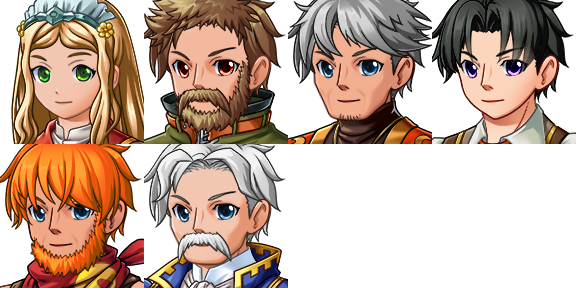
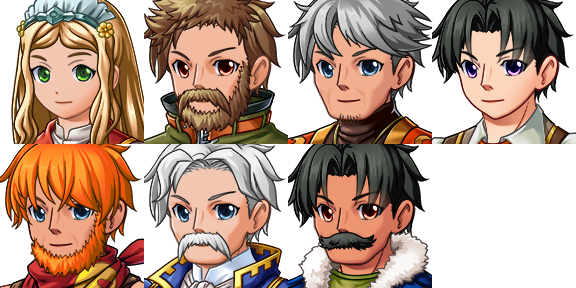
Saul Pennock gets a face of his own
He wore the Merchant's (People2 4), shared with two stalls, the Restwell
guest and Fellow Amory. Drawn as Gen_People17 6: a black moustache and a
pea coat with a fur collar, for a man from a cove.

Claude-Session: https://claude.ai/code/session_01DT7LL7HdDHkfFQ7pwiGzCu

Changed region(s): [[0.5, 0.5, 0.75, 1.0]]

diff --git a/build/q_roland.py b/build/q_roland.py
@@ -308,7 +308,7 @@ ALUMNI = [
           "eleven times. The twelfth was me.",
           "Our Roland, the whole crew calls him."]]),
     ("saul", "Saul Pennock (the Reckoning at Pennock's Cove)", "Saul",
-     ("People2", 4), BY_THE_DOOR, 8, [
+     None, BY_THE_DOOR, 8, [
          ["He settled the Reckoning at Pennock's",
           "Cove, all but the last of it. Said",
           "he'd never had a better crew. Hm."]]),
@@ -322,7 +322,8 @@ ALUMNI = [
 ROL3_FACES = {"florence": ("Gen_People12", 1), "anselm": ("Gen_People12", 2),
               "mags": ("Gen_People12", 3), "pim": ("Gen_People12", 4),
               "odile": ("Gen_People12", 5), "jory": ("Gen_People12", 6),
-              "ned": S.FACES["Ned Scarrow"], "royce": S.FACES["Major Royce"]}
+              "ned": S.FACES["Ned Scarrow"], "royce": S.FACES["Major Royce"],
+              "saul": S.FACES["Saul"]}
 # Speakers whose on-screen name is somebody else's `FACES` key: Ned Scarrow
 # is "Ned", and so is Gladhollow's.
 ROL3_FACE_KEYS = {"ned": "Ned Scarrow"}

diff --git a/build/story.py b/build/story.py
@@ -392,7 +392,7 @@ FACES = {
     "Old Jory": ("Gen_People12", 6),
     "Hettie": ("People1", 1),
     "Lord Tobin": ("People3", 2),
-    "Saul": ("People2", 4),
+    "Saul": ("Gen_People17", 6),              # was the Merchant's
     # Ned Scarrow is "Ned" on screen and is not Gladhollow's Ned: this
     # table used to say "Ned" twice, so the later entry won and Toby's
     # brother at the east gate wore Tibb's face and sprite. He speaks

diff --git a/build/art.py b/build/art.py
@@ -372,6 +372,8 @@ SHEETS = {
         (3, "fellow-grice.json"),       # sends his apologies
         (4, "ned-scarrow.json"),        # the twelfth dive was Roland
         (5, "major-royce.json"),        # the Glass Fort
+        # Saul Pennock, who wore the Merchant's face (Mike, 3 Nov).
+        (6, "saul-pennock.json"),       # never had a better crew. Hm.
     ],
 }
 

diff --git a/CLAUDE.md b/CLAUDE.md
@@ -1307,7 +1307,7 @@ of the art, so the data build never needs the untracked stock generator parts.
 | `Gen_People14` | Cuthbert Spence | Ambrosine Quill | Lorrimer | Maud | Spare | Cotter | the Courier, Effie |
 | `Gen_People15` | Mrs Gotobed | Mr Dibble | Mrs Throssell | Mr Cobley | Thalion | Aelwen | Elowen, Calder |
 | `Gen_People16` | Ninian | the Copyist | Mr Pilbeam | the smithy's Apprentice | the Committee Clerk | Mrs Budge | the Old Man, the Child |
-| `Gen_People17` | the Hithermost villager | the Turnip's Regular | the man having a day off | Fellow Grice | Ned Scarrow | Major Royce | *free* |
+| `Gen_People17` | the Hithermost villager | the Turnip's Regular | the man having a day off | Fellow Grice | Ned Scarrow | Major Royce, Saul Pennock |
 
 **The Sable Hart's five wear a borrowed hood.** The male body has no hood
 among its parts, so `art.py`'s `BORROWED` lends the female `AccB p10` riding
@@ -1326,8 +1326,8 @@ sprite from the same file, for every human who spoke without one;
 `Gen_People11`'s last five and `Gen_People12` to `Gen_People15` are the
 companion quests'; Olde Evermore's six elves of the playtest round's P3 are
 `Gen_People15` 4-7 and `Gen_People16` 0-1; `Gen_People16` 2-7 and
-`Gen_People17` 0-5 are faces that used to be shared (Mike, 3 Nov 2026 - see
-`story.FACES`), and **the next face goes in `Gen_People17` 6**. The
+`Gen_People17` 0-6 are faces that used to be shared (Mike, 3 Nov 2026 - see
+`story.FACES`), and **the next face goes in `Gen_People17` 7**, the last on that sheet. The
 apprentice keeps Ott's brass goggles, which only the male body has: `art.py`'s
 `BORROWED` lends them to the female body as `AccB p11`. Restwell's third speaking part, Dr Pike,
 **shares `SF_Actor3:6`** instead - `story.FACES` records every such share and
